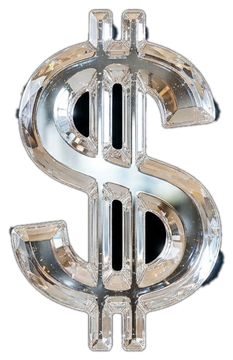
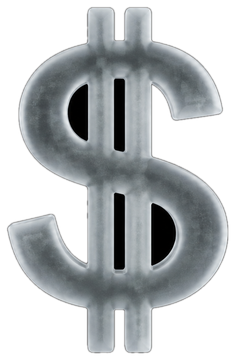
Welcome card: swap to frosted-glass BTC/USD/EUR photos, black cut out

diff --git a/index.html b/index.html
@@ -189,9 +189,9 @@
     <div id="view-home">
       <section id="landing" aria-label="Welcome" hidden>
         <div class="landing-coins" aria-hidden="true">
-          <img class="coin coin-btc" src="/icons/coin-btc.png" alt="" draggable="false">
-          <img class="coin coin-eur" src="/icons/coin-eur.png" alt="" draggable="false">
-          <img class="coin coin-usd" src="/icons/coin-usd.png" alt="" draggable="false">
+          <img class="coin coin-btc" src="/icons/coin-btc.png?v=2" alt="" draggable="false">
+          <img class="coin coin-eur" src="/icons/coin-eur.png?v=2" alt="" draggable="false">
+          <img class="coin coin-usd" src="/icons/coin-usd.png?v=2" alt="" draggable="false">
         </div>
         <p class="landing-eyebrow">Private · No account needed</p>
         <h2 class="landing-title">Manage your business expenses and portfolio in <span class="crayon">one place</span>.</h2>
